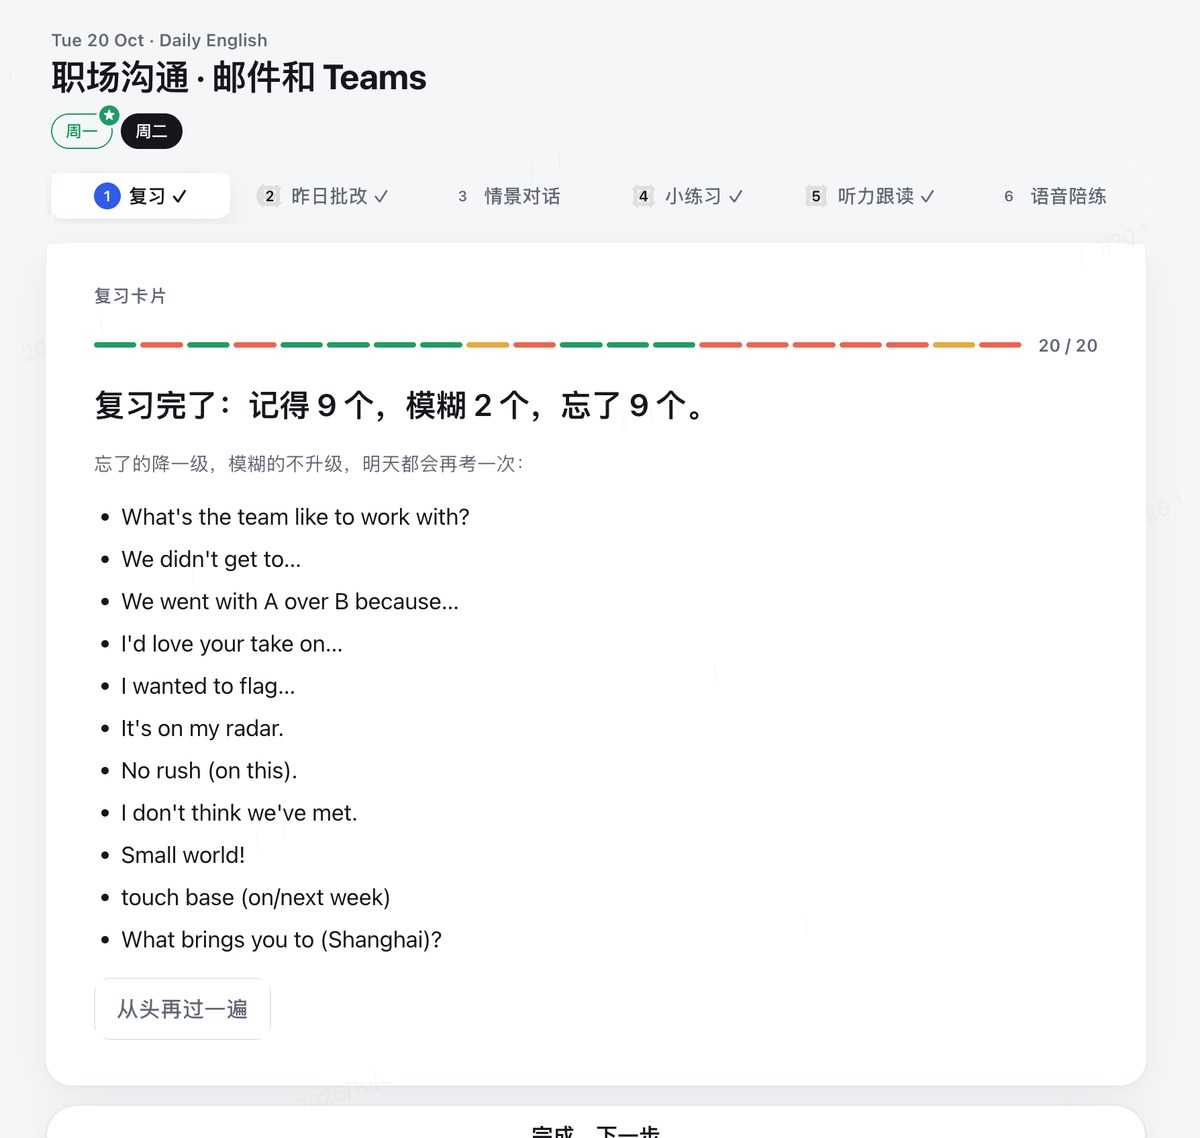
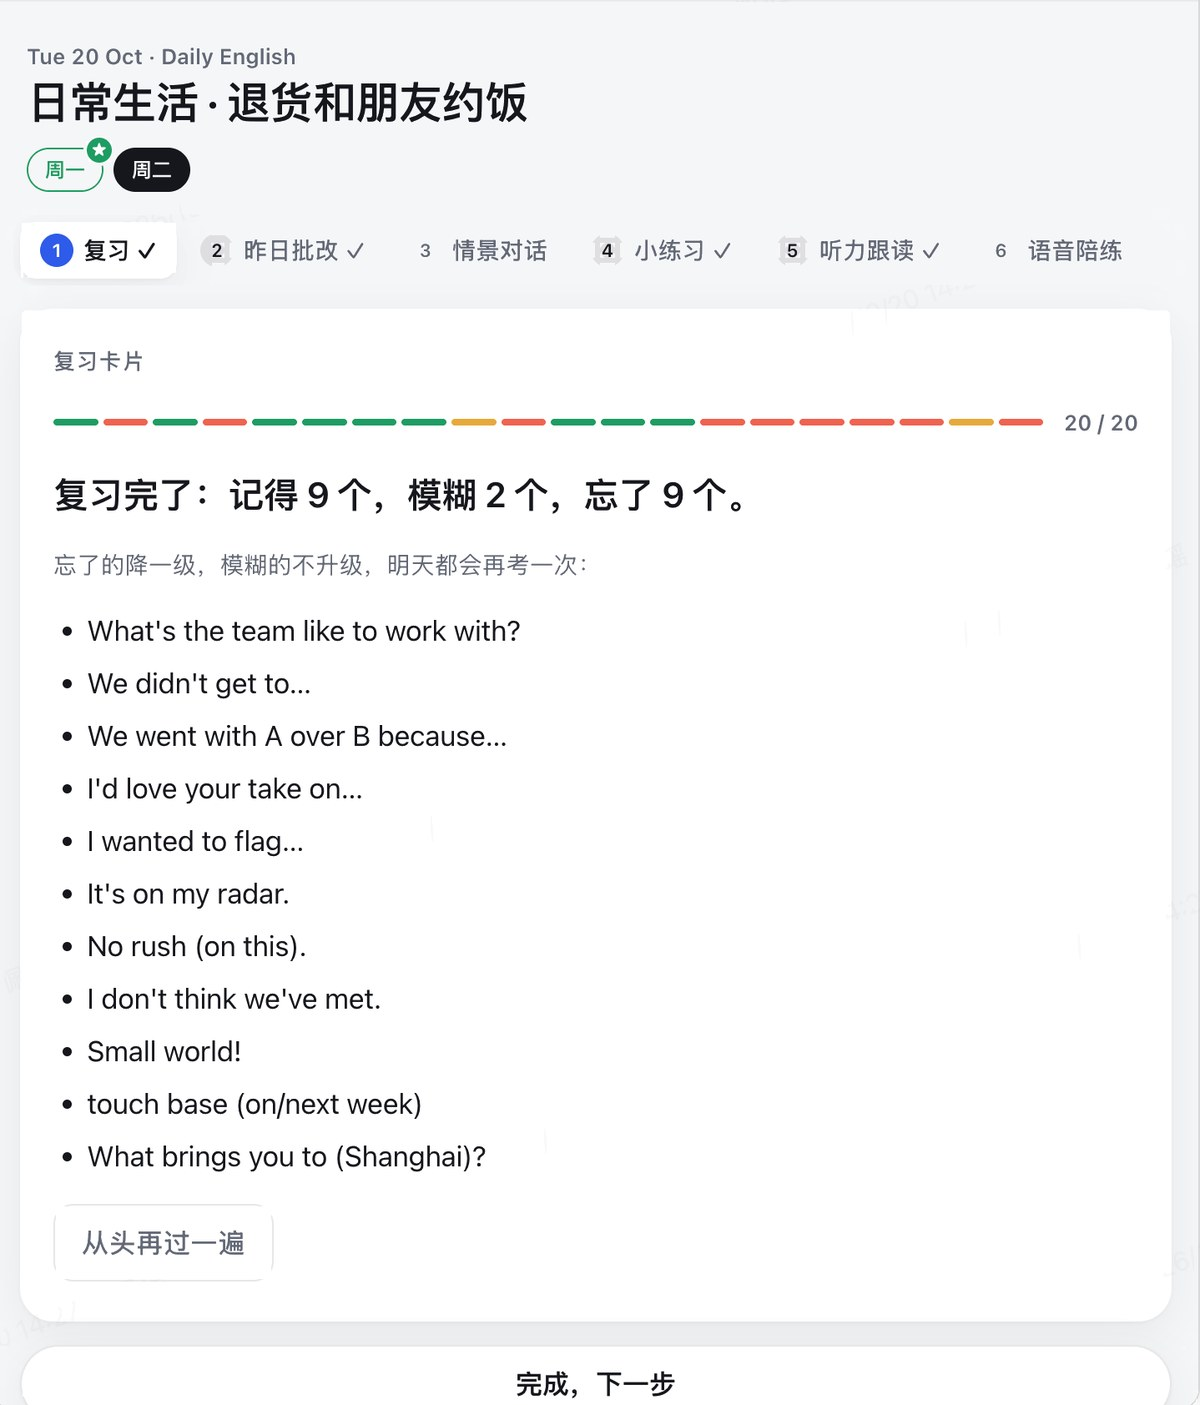
案例③:主界面换成当前这期,补七张电脑端截图,更正一处关于图 4 的说法
主界面已换成「日常生活 · 退货和朋友约饭」,和三张对话同一期,场景标题不一致的问题解决。
新到的七张全部跑过去水印脚本并逐张看过。

更正:早前说「图 4 画的『第二条 · 母语者会怎么说』在产品里不存在」,后半句错了。
两条结构是存在的,只是不在昨日批改,在复习卡「自己说」题型的 AI 判分里
(renderReview 中的「你的说法 · 改得更自然」与「用上要复习的表达」两行),
语义和图 4 原稿几乎一致,错的是标签和位置。重画后的图 4 画的是批改卡,仍然准确,不改。

批改卡那一格先空着:批改卡批的永远是前一天的回答,今天拍到的还是改版前那一期的内容,
明天拍一张就是同一期的了。

图 6 加到八张,一页太挤,按分镜里「扩到 10 页」的方案拟把 P8 拆成两页。

Claude-Session: https://claude.ai/code/session_01T2eG21JB6x4pi1bVPVPyA8

diff --git a/cases/03-英语口语练习/配图清单.md b/cases/03-英语口语练习/配图清单.md
@@ -8,9 +8,9 @@
 | 图 1 | P3 | 三类做法对照 + 收敛线 → 主张。与案例⑤ 图 1 同一套图例语言 | ✅ 完成 |
 | 图 2 | P7 | 二十七天改版时间线,十一个节点。上下双排,形态分段带,蓝点标形态变化,红点标 10/18 | ✅ 完成 |
 | 图 3 | P4–P6 页内 | 纠错的三个时机:对话中不纠 / 当天只判定 / 第二天批改,各写服务什么 | ✅ 完成 |
-| 图 4 | P4–P6 页内 | 批改卡两块结构:上块改写 + 规律编号,下块提炼出的新表达,中间标「刻意不合并」 | ✅ 完成(10/20 按实际界面重画) |
+| 图 4 | P4–P6 页内 | 批改卡两块结构:上块改写 + 规律编号,下块提炼出的新表达,中间标「刻意不合并」 | ✅ 完成(10/20 按实际界面重画;原稿画的「母语者会怎么说」其实是复习卡「自己说」的判分结构,见 screens/README.md) |
 | 图 5 | P9 | 八天复习结果条,三档堆叠。10/13 压灰并注明不计,10/18 标红,中间一道虚线标判定方式变更 | ✅ 完成(10/20 按数据库重算) |
-| **图 6** | **P8** | **主界面 1 张 + 接话回合连续 4 张 + 批改卡 1 张** | 🟡 **构图已定,等不带水印的电脑端重拍** |
+| **图 6** | **P8(拟拆两页)** | **主界面 1 + 接话回合 3 + 批改卡 1 + 填一个词 1 + 自己说判两条 1 + 听力跟读 1** | 🟡 **七张已到位,只差批改卡;八张一页太挤,P8 拟拆成两页** |
 
 ## 图 6 的说明
 
@@ -23,7 +23,7 @@
 |---|---|---|
 | 1 主界面 | 10/20 **电脑端**那张(日期 + 场景标题 + 周一/周二 + 整条步骤条 + 今天第一张卡) | 页面在 760px 以上会把步骤条摊成一行,整条都在;手机端只露三个半,所以必须用电脑端。**待换**:现有这张是重新生成之前的「职场沟通」,场景标题和另外三张对不上 |
 | 2–5 接话回合 | 10/20 14:08 电脑端 Saturday Errands 那组三张:对话上半 / 限时模式与输入框 / 剧情随回答变化 | 电脑端一屏装得下更多,三张就够四格 |
-| 6 批改卡 | 暂用 10/20 13:23 手机那组(你说的 / 更地道 / 规律①,加下面「来自你回答的新表达」) | **待换电脑端**,六格别混两种尺寸 |
+| 6 批改卡 | **先空着** | 电脑端已拍,但批改卡批的是前一天的回答,而前一天是改版前的「职场沟通」那期,产品行为描述又回来了。明天拍一张就干净了,详见 screens/README.md |
 
 **这组截图里最值得单独排的一对**:10/19 把「Honestly, I haven't tested it with real drivers yet.
 That's what I'd do next.」改写出来 → 10/20 批改卡把 That's what I'd do next. 提炼成新表达 →
@@ -37,8 +37,9 @@ easter egg 四级降级」的描述,已换成 10/20 的 Saturday Errands 一期(
 水印已经去掉了,四张电脑端都跑过 `assets/case03/screens/去水印.py`,做法和残留写在那边的 README 里。
 确认过水印不是页面画的,是电脑上的截图软件加的,用系统截图重拍就没有。
 
-还缺两帧:**当前这一期的主界面**(现有那张是重新生成之前的「职场沟通」,和三张 Saturday Errands 对不上)、
-**电脑端批改卡**。
+主界面已换成当前这一期「日常生活 · 退货和朋友约饭」,场景标题对上了。
+**只剩批改卡一格**:批改卡批的永远是前一天的回答,今天拍到的还是改版前那一期的内容,
+明天拍一张就是同一期的了。
 
 ## 配图数据的出处
 

diff --git a/assets/case03/screens/README.md b/assets/case03/screens/README.md
@@ -55,11 +55,52 @@
 
 要完全干净,用系统截图重拍一次就行(macOS ⇧⌘4 / Windows Win+⇧+S)。
 
-## 还缺的
+## 14:27 补拍的四张
 
-- **主界面要重拍**:现在这张是 14:04 的「职场沟通 · 邮件和 Teams」,
-  而三张对话是 14:08 之后重新生成的 Saturday Errands。同一组图里场景标题对不上,得补一张当前这一期的
-- **批改卡要电脑端**:手上只有手机那组,六格混两种尺寸排出来会乱
+`desktop-主界面.jpg` 已换成当前这一期「日常生活 · 退货和朋友约饭」,和三张对话对得上了,
+场景标题不一致的问题解决。
+
+`desktop-批改卡-1/2/3` 是电脑端的批改卡,结构和图 4 画的一致:
+上块「你说的 → 更地道(绿边)→ 规律①」,下块「来自你回答的新表达」只收 ✍ 标记的那一条。
+
+**但这组批改卡现在不能用。** 批改卡批的永远是前一天的回答,而前一天是改版之前的
+「职场沟通 · 邮件和 Teams」,所以 1、2、5 三条里又出现了「safety alert 触发后 easter egg
+怎么样」「animation can now continue, dim, pause or stop」这类产品行为描述——正是上午换掉的那批内容。
+
+两条路:
+1. **明天再拍一张**(推荐)。明天的批改卡批的是今天「退货和朋友约饭」这一期,整组图就是同一期,干净
+2. 只截第 3、4 条(Mia 的笔记本电脑、Priya 的 deck 和额外一页),这两条是通用职场英语,不涉及产品行为
+
+在定下来之前,P8 的批改卡那一格先空着。
+
+## 14:28 补的三张细节(以及一处更正)
+
+| 文件 | 内容 |
+|---|---|
+| `desktop-复习卡-填一个词-自动判.jpg` | 挖一个词打字,自动判对错,底下「💡 为什么这么说」讲 get to 的意思 |
+| `desktop-复习卡-自己说-AI判两条.jpg` | 自己造句,AI 判:**你的说法 · 改得更自然** / **用上要复习的表达** 两条分开给 |
+| `desktop-听力跟读.jpg` | NN/g 的 Stripe 设计原则视频,①先听懂两个问题 ②没有文字稿就听一句跟一句 |
+
+**更正**:10/20 上午说过「图 4 画的『第二条 · 母语者会怎么说』在产品里不存在」。
+前半句对,后半句错了——**两条结构是存在的,只是不在昨日批改,在复习卡的「自己说」题型里**。
+页面源码 `renderReview` 里就是这两行:
+
+```
+if(R.mine&&!sameT(R.mine,said)) row("你的说法 · 改得更自然", R.mine)
+if(R.better&&...)               row("用上要复习的表达",      R.better)
+```
+
+语义和图 4 原来画的几乎一样:一条不硬塞目标表达,只把她自己的话改自然;另一条才是用上目标表达的说法。
+原来错的是标签(不是「母语者会怎么说」)和位置(不在批改卡)。
+
+重画后的图 4 画的是批改卡,那部分仍然准确,不用再改。但这个两条判分是 P8「判分不给标准答案」
+最直接的证据,建议进图 6。
+
+## 图 6 的面数
+
+加上这两张,P8 要放的真实截图到了八张(主界面 / 对话三张 / 批改卡 / 填一个词 / 自己说判两条 / 听力跟读)。
+一页塞八张太挤,按分镜里「扩到 10 页」的方案把 P8 拆成两页:
+**一页主界面与接话回合,一页批改卡与判分**,取舍那四条跟后一页走。
 
 批改卡不受影响:`.fixCard` / `.fixRow` / `.cmp` 在那条断点里都没有被改写,电脑端仍然是上下竖排。
 
